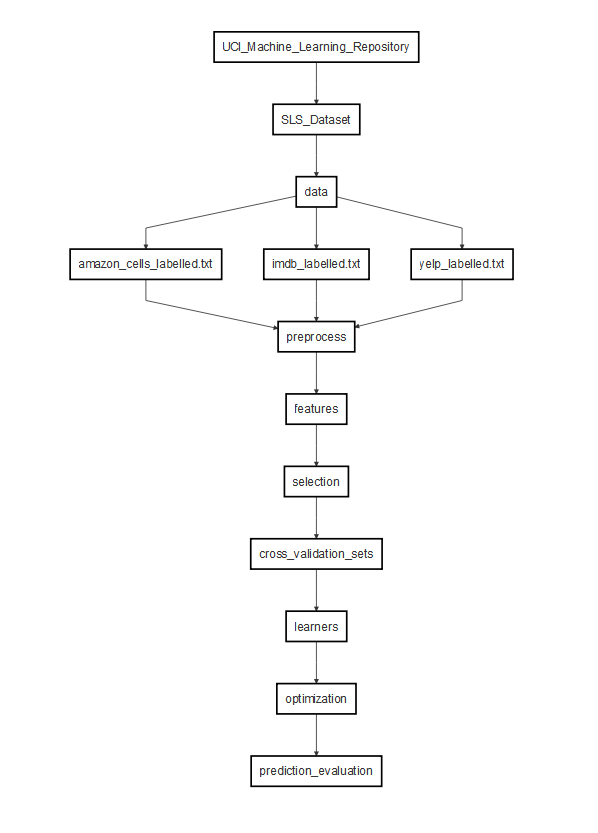
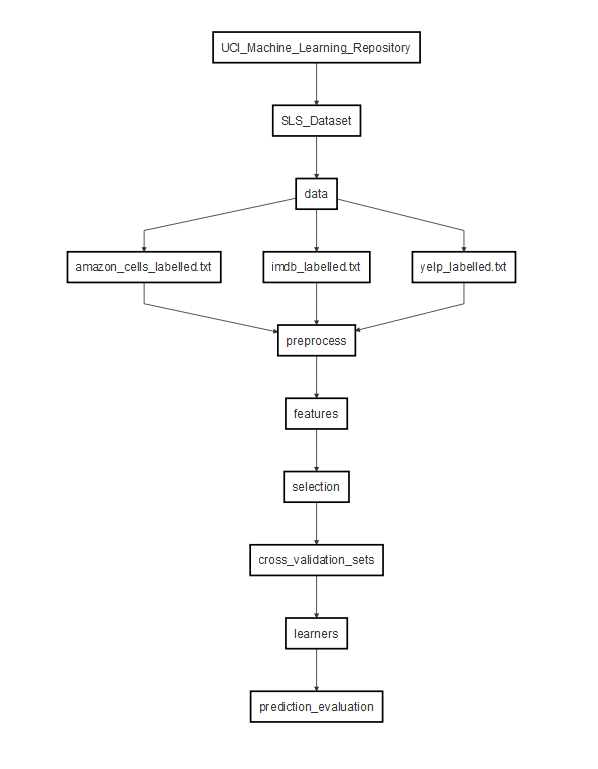
Update flowchart

diff --git a/index.html b/index.html
@@ -270,7 +270,7 @@ Ryerson University</p></em></h4>
 </div>
 <div id="methods" class="section level1">
 <h1><span class="header-section-number">4</span> Methods</h1>
-<p>The methods described in this section attempted to experiment with several solutions to the classification problem defined in Section <a href="#problem">3</a>. The unstructured nature of the sentence attribute presented required preprocessing to create features which are then further preprocessed to search for adequately useful features (selection). These features were then randomly split into approximately equal number of instances for cross validation training sets. These training sets were then used as input for a selected number of algorithms, which were optimized for algorithm specific parameters and evaluated for prediction quality. A summary of the methods is shown in Figure <a href="#fig:fig1">4.1</a>. See Appendix <a href="#appendix-a-r-code">A</a> for the R code.</p>
+<p>The methods described in this section attempted to experiment with several solutions to the classification problem defined in Section <a href="#problem">3</a>. The unstructured nature of the sentence attribute presented required preprocessing to create features which are then further preprocessed to search for adequately useful features (selection). These features were then randomly split into approximately equal number of instances for cross validation training sets. These training sets were then used as input for a selected number of algorithms and evaluated for prediction quality. A summary of the methods is shown in Figure <a href="#fig:fig1">4.1</a>. See Appendix <a href="#appendix-a-r-code">A</a> for the R code.</p>
 <div class="figure"><span id="fig:fig1"></span>
 <img src="img/fig1.png" alt="Flowchart of Methods"  />
 <p class="caption">
@@ -282,11 +282,16 @@ Figure 4.1: Flowchart of Methods
 <p>The preprocessing steps involved getting the data ready for the machine learning algorithms to train on. This involved creating features from the instances in the sentence attribute and selecting only the features that are measured to be useful in terms of predicting the target sentiment attribute. Furthermore, the data was also split into cross validation training sets and used as the resulting training data for the machine learning algorithms.</p>
 <div id="parsing" class="section level3">
 <h3><span class="header-section-number">4.1.1</span> Parsing</h3>
-<p>The data was defined as a tab delimited text file that held string based text as the first sentence attribute and numeric binary numbers as the second sentiment attribute. The unstructured nature of the sentence attribute made parsing the file less straight-forward as instances in the sentence attribute were not quoted and could contain any number of tab characters. The data was: (i) parsed line by line (ii) cleaned by removing the last occurence of tab characters and punctuation, and (iii) extracted for sentiment and sentence instances where the last character was defined as the sentiment, and the rest of the text was defined as the sentence.</p>
+<p>The data was defined as a tab delimited text file that held string based text as the first sentence attribute and numeric binary numbers as the second sentiment attribute. The unstructured nature of the sentence attribute made parsing the file less straight-forward as instances in the sentence attribute were not quoted and could contain any number of tab characters. The data was:</p>
+<ol style="list-style-type: decimal">
+<li>Parsed line by line</li>
+<li>Cleaned by removing the last occurence of tab characters and punctuation</li>
+<li>Extracted for sentiment and sentence instances where the last character was defined as the sentiment, and the rest of the text was defined as the sentence</li>
+</ol>
 </div>
 <div id="features" class="section level3">
 <h3><span class="header-section-number">4.1.2</span> Features</h3>
-<p>The features<a href="#fn6" class="footnoteRef" id="fnref6"><sup>6</sup></a> were created using a simple bag of words model that was not order-dependent. The bag of words model constructs a feature for each unique word in the sentence attribute and counts the occurence per sentence instance in the SLS dataset <span class="citation">(Nadkarni, Ohno-Machado, and Chapman 2011)</span>. Each <span class="math inline">\(k\)</span> word feature <span class="math inline">\(w^{(k)}\)</span> is a count of the occurence of <span class="math inline">\(k\)</span> unique words in the sentence attribute <span class="math inline">\(x^{(n)}\)</span> given <span class="math inline">\(n\)</span> instances. For clarification, all words were considered, including stop words[^Stop words are commonly used words in the language that are often, but not always, removed as they may not hold useful information, but there is a possiblity that stop words may be useful], as these would be removed in the feature selection process if they were measured as being not very useful - thus, the possibility of them being useful was considered. An example of the word features is given in Table <a href="#tab:tab3">4.1</a>. Feature construction was applied using the <em>text2vec</em> R package <span class="citation">(Selivanov 2016)</span>.</p>
+<p>The features<a href="#fn6" class="footnoteRef" id="fnref6"><sup>6</sup></a> were created using a simple bag of words model. The bag of words model constructs a feature for each unique word in the sentence attribute and counts the occurence per sentence instance in the SLS dataset <span class="citation">(Nadkarni, Ohno-Machado, and Chapman 2011)</span>. Each <span class="math inline">\(k\)</span> word feature <span class="math inline">\(w^{(k)}\)</span> is a count of the occurence of <span class="math inline">\(k\)</span> unique words in the sentence attribute <span class="math inline">\(x^{(n)}\)</span> given <span class="math inline">\(n\)</span> instances. For clarification, all words were considered, including stop words[^Stop words are commonly used words in the language that are often, but not always, removed as they may not hold useful information, but there is a possiblity that stop words may be useful], as these would be removed in the feature selection process if they were measured as being not very useful - thus, the possibility of them being useful was considered. An example of the word features is given in Table <a href="#tab:tab3">4.1</a>. Feature construction was applied using the <em>text2vec</em> R package <span class="citation">(Selivanov 2016)</span>.</p>
 <table>
 <caption><span id="tab:tab3">Table 4.1: </span>Example of Word Features</caption>
 <thead>
@@ -329,13 +334,13 @@ Figure 4.1: Flowchart of Methods
 </div>
 <div id="selected-learners" class="section level3">
 <h3><span class="header-section-number">4.2.3</span> Selected Learners</h3>
-<p>The learners selected for the experiments were standard machine learning choices that were relatively efficient and simple to run as the strict correlation removal procedure enabled independent features of low dimensionality. The selected machine learning algorithms are the Naive Bayes Classifier (NBC), Support Vector Machine (SVM) and Random Forest (RF) from the R package <em>e1071</em> <span class="citation">(meyer 2017)</span>. The selected algorithms were evaluated based on their F1 score to account for potential binary class imbalances in the sentient attribute. See the learners section under Appendix A for more details.</p>
+<p>The learners selected for the experiments were standard machine learning choices that were relatively efficient and simple to run as the strict correlation removal procedure enabled independent features of low dimensionality. The selected machine learning algorithms are the Naive Bayes Classifier (NBC), Support Vector Machine (SVM) and Random Forest (RF) from the R package <em>e1071</em> <span class="citation">(Meyer 2017)</span>. The selected algorithms were evaluated based on their F1 score to account for potential binary class imbalances in the sentient attribute. See the learners section under Appendix A for more details.</p>
 </div>
 </div>
 </div>
 <div id="results" class="section level1">
 <h1><span class="header-section-number">5</span> Results</h1>
-<p>Figure <a href="#fig:fig2">5.1</a> shows the distribution of classes in the sentiment attribute. The results ranged from CV F1 scores of 0.26 to 0.73 per fold. Figure <a href="#fig:fig3">5.2</a> shows the average CV F1 scores obtained from the experiments. The word feature importances are also shown in Figure <a href="#fig:fi4"><strong>??</strong></a>. The top ten word features based on feature importances was selected from these options, which produced a training feature matrix of 10 columns by 3000 rows, with each <span class="math inline">\(k\)</span> column representing <span class="math inline">\(w^{k}\)</span> word vectors.</p>
+<p>Figure <a href="#fig:fig2">5.1</a> shows the distribution of classes in the sentiment attribute. The results ranged from CV F1 scores of 0.26 to 0.73 per fold. Figure <a href="#fig:fig3">5.2</a> shows the average CV F1 scores obtained from the experiments. The word feature importances are also shown in Figure <a href="#fig:fig4">5.3</a>. The top ten word features based on feature importances was selected from these options, which produced a training feature matrix of 10 columns by 3000 rows, with each <span class="math inline">\(k\)</span> column representing <span class="math inline">\(w^{k}\)</span> word vectors.</p>
 <div class="figure"><span id="fig:fig2"></span>
 <img src="index_files/figure-html/fig2-1.png" alt="Sentiment Class Distribution" width="672" />
 <p class="caption">
@@ -377,7 +382,7 @@ Figure 5.3: Feature Importances
 <p>Lichman, Moshe. 2013. “(UCI) Machine Learning Repository.” <a href="http://archive.ics.uci.edu/ml" class="uri">http://archive.ics.uci.edu/ml</a>.</p>
 </div>
 <div id="ref-meyer2017">
-<p>meyer, david. 2017. “E1071: Misc Functions of the Department of Statistics, Probability Theory Group (Formerly: E1071), TU Wien.” <a href="https://cran.r-project.org/package=e1071" class="uri">https://cran.r-project.org/package=e1071</a>.</p>
+<p>Meyer, David. 2017. “E1071: Misc Functions of the Department of Statistics, Probability Theory Group (Formerly: E1071), TU Wien.” <a href="https://cran.r-project.org/package=e1071" class="uri">https://cran.r-project.org/package=e1071</a>.</p>
 </div>
 <div id="ref-prakash2011">
 <p>Nadkarni, Prakash M, Lucila Ohno-Machado, and Wendy W Chapman. 2011. “Natural Language Processing: An Introduction.” <em>Journal of the American Medical Informatics Association</em> 18 (5). PubMed Central: 544–51. doi:<a href="https://doi.org/10.1136/amiajnl-2011-000464">10.1136/amiajnl-2011-000464</a>.</p>
